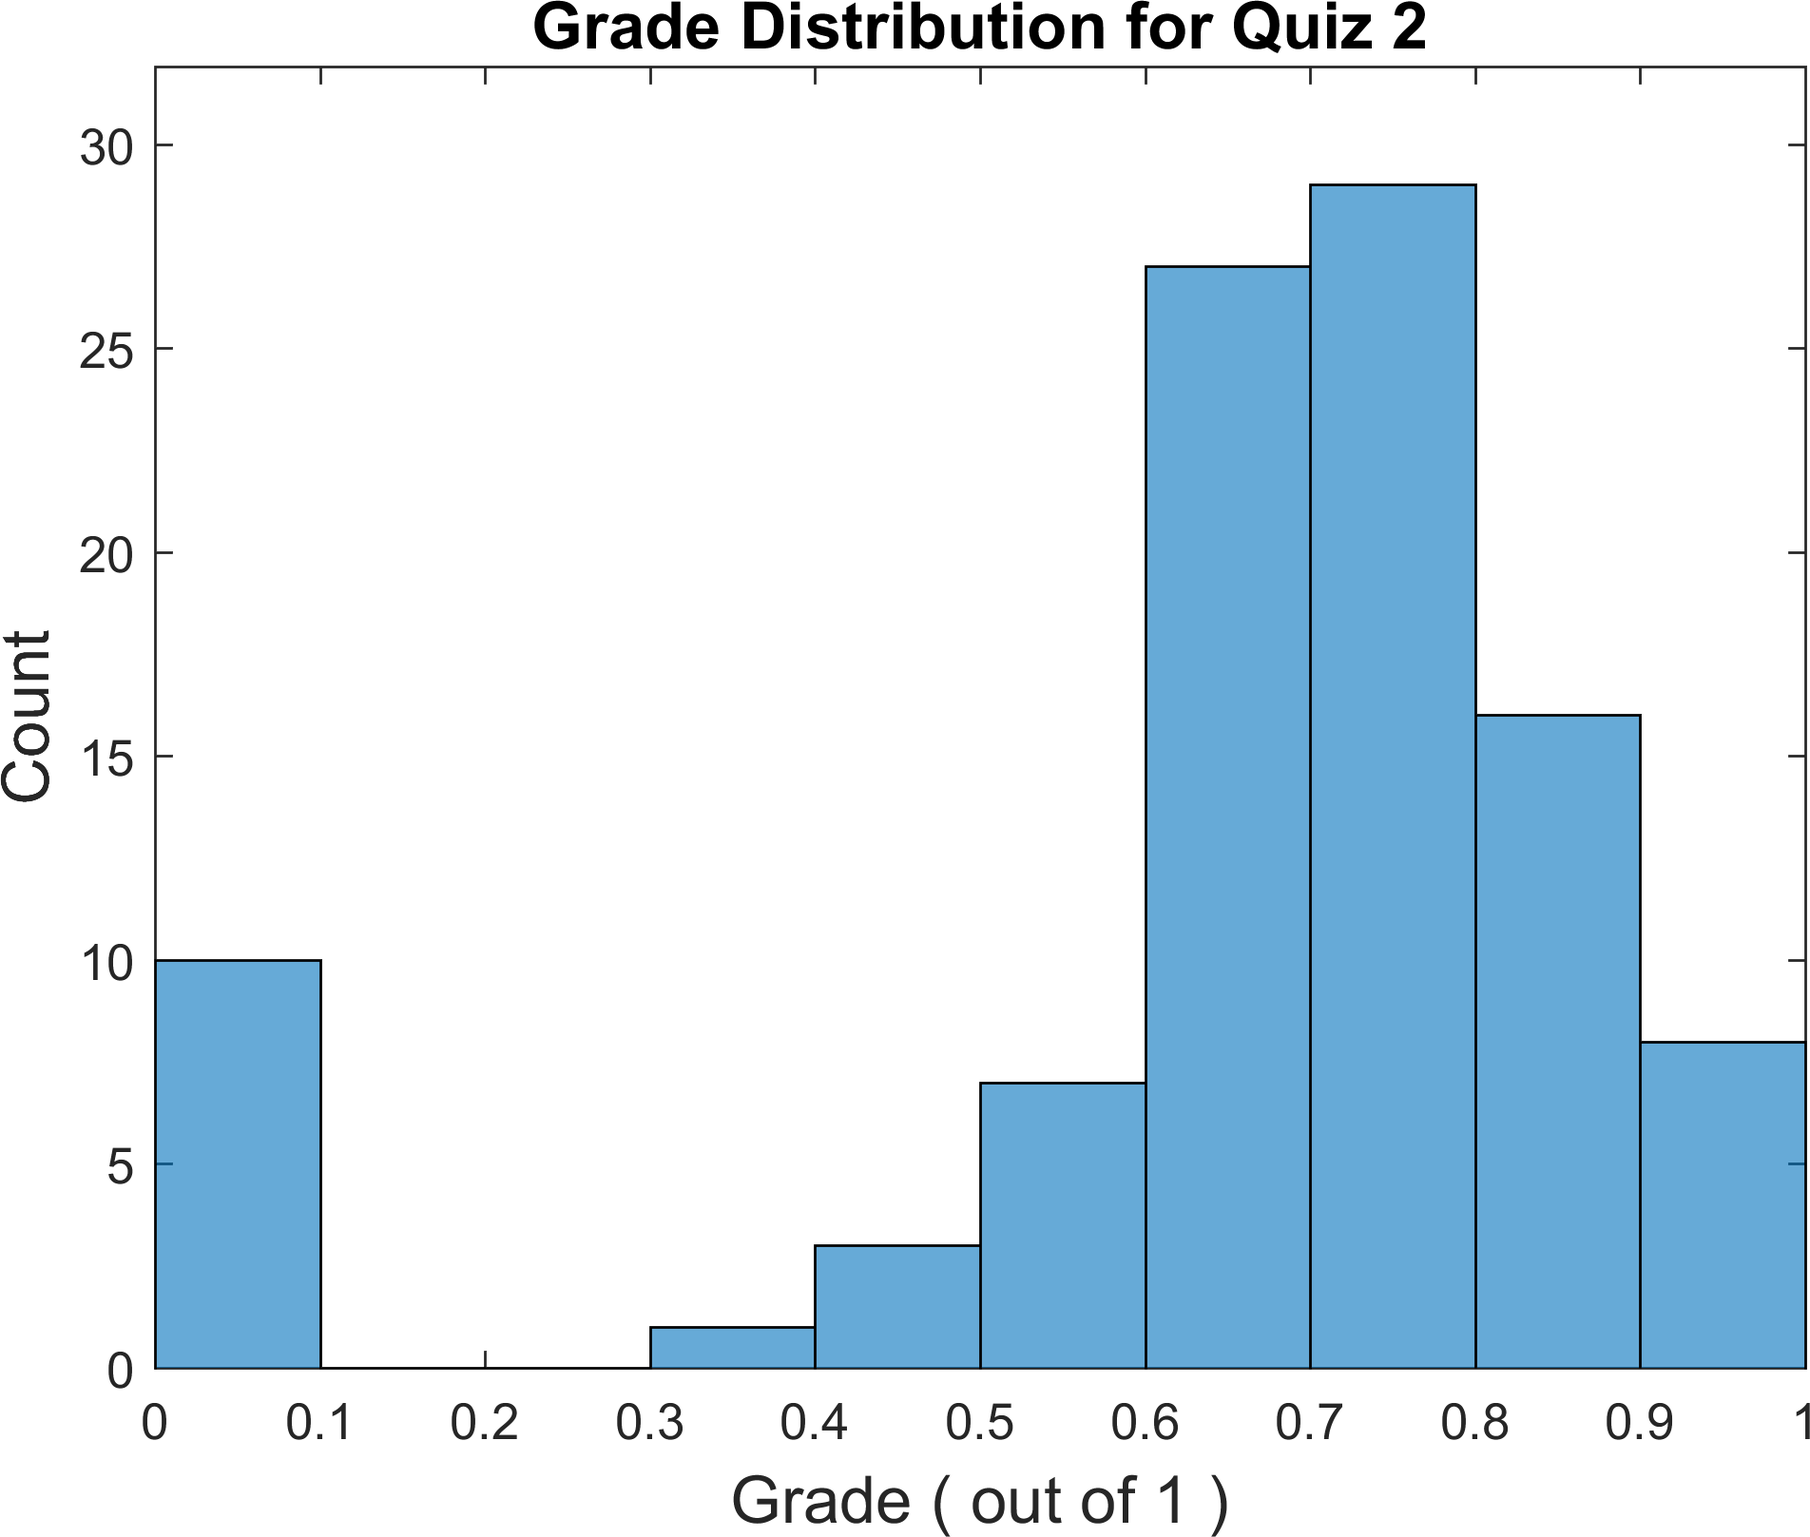
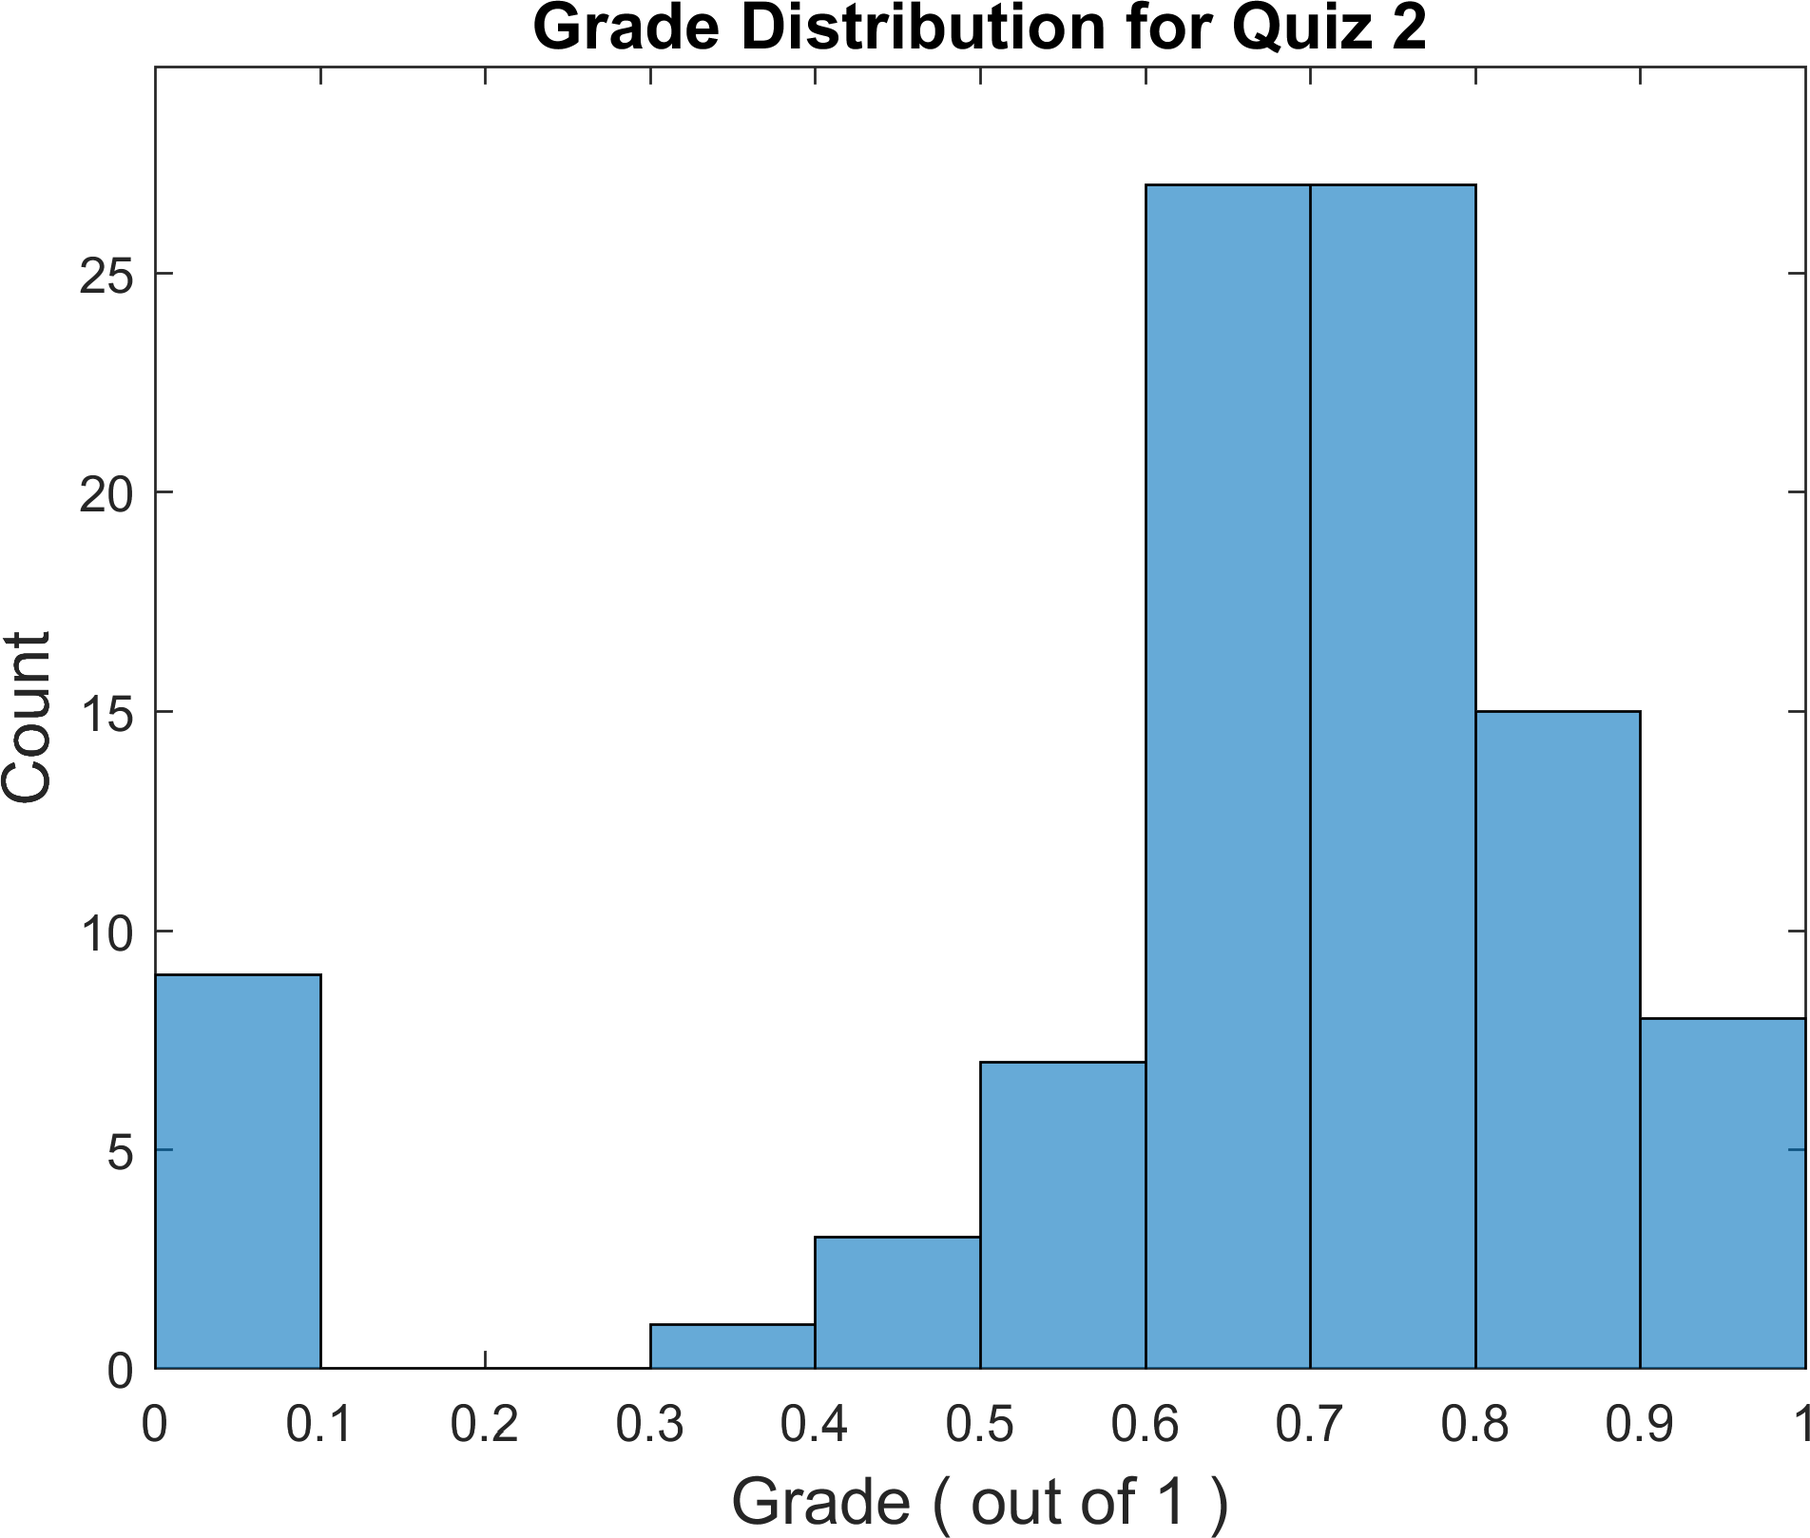
latest build

diff --git a/index.html b/index.html
@@ -229,7 +229,7 @@ MathJax.Hub.Queue(function() {
                 </h3>
             </header>
             <section class="notepad-post-excerpt">
-                <p>This is the solution to Quiz 4: Problems - MATLAB loops. This quiz is about for loops, while loops and vectorization in MATLAB. 1.  Write a function that takes an input integer, and computes its factorial, in the following ways:...</p>
+                <p>This is the solution to Quiz 4: Problems - MATLAB loops. The following figure illustrates the grade distribution for this quiz. Maximum possible points is 1. This quiz is about for loops, while loops and vectorization in MATLAB. 1.  Write...</p>
             </section>
             
                 <div class="notepad-index-post-tags">
@@ -328,7 +328,7 @@ MathJax.Hub.Queue(function() {
                 </h3>
             </header>
             <section class="notepad-post-excerpt">
-                <p>This is the solution to Homework 4: Problems - loops, IO. ♣ Due Date: Monday Nov 13, 2017 9:00 AM. This homework aims at giving you some experience with MATLAB for-loops and while-loops as well as input/output functionalities in MATLAB....</p>
+                <p>This is the solution to Homework 4: Problems - loops, IO. The following figure illustrates the grade distribution for this homework. ♣ Due Date: Monday Nov 13, 2017 9:00 AM. This homework aims at giving you some experience with MATLAB...</p>
             </section>
             
                 <div class="notepad-index-post-tags">
@@ -460,7 +460,7 @@ MathJax.Hub.Queue(function() {
                 </h3>
             </header>
             <section class="notepad-post-excerpt">
-                <p>This is the solution to Homework 3: Problems - structures, branching and functions in MATLAB. ♣ Due Date: Monday Oct 30, 2017 9:00 AM. This homework aims at giving you some experience with structure types in MATLAB as well as...</p>
+                <p>This is the solution to Homework 3: Problems - structures, branching and functions in MATLAB. The following figure illustrates the grade distribution for this homework. Maximum possible points, excluding bonus question, is 100. ♣ Due Date: Monday Oct 30, 2017...</p>
             </section>
             
                 <div class="notepad-index-post-tags">
@@ -817,7 +817,7 @@ MathJax.Hub.Queue(function() {
     <footer class="notepad-site-footer">
     <div class="copyright">
          <!-- <section>Last updated 2017 / 11 / 29</section></br> -->
-         <section>Last updated Wednesday, 29 Nov 2017 at 03:41 PM CST</section></br>
+         <section>Last updated Wednesday, 29 Nov 2017 at 04:51 PM CST</section></br>
          <section>All content exclusively maintained by <a href="http://shahmoradi.org" target="_blank">Amir Shahmoradi</a> <!-- &copy;--> </section></br>
          <section><a class="icon-ghost" href="http://www.ae.utexas.edu/" target="_blank">Department of Aerospace Engineering and Engineering Mechanics</a></section></br>
          <section><a class="icon-ghost" href="https://www.ices.utexas.edu/" target="_blank">Institute for Computational Engineering and Sciences | POB 6.328</a></section></br>

diff --git a/homework/3-solutions-matlab-structures-branching-functions.html b/homework/3-solutions-matlab-structures-branching-functions.html
@@ -146,23 +146,19 @@ MathJax.Hub.Queue(function() {
             <div style="text-align:justify;">
                 <p>This is the solution to <a href="3-problems-matlab-structures-branching-functions.html" target="_blank">Homework 3: Problems - structures, branching and functions in MATLAB</a>.</p>
 
-<!--
-
-The following figure illustrates the grade distribution for this homework.  
+<p>The following figure illustrates the grade distribution for this homework.</p>
 
 <figure>
-	<img src="/ICP2017F/homework/gradeDist/gradeHistHomework2.png" width="700">
+	<img src="/ICP2017F/homework/gradeDist/gradeHistHomework3.png" width="700" />
     <figcaption style="text-align:center">
         Maximum possible points, excluding bonus question, is 100.
     </figcaption>
 </figure>
 
----
----
+<hr />
+<hr />
 
-<br> 
-
--->
+<p><br /></p>
 
 <p>♣ <strong>Due Date: Monday Oct 30, 2017 9:00 AM</strong>. This homework aims at giving you some experience with structure types in MATLAB as well as branching and function concepts and their usage syntax. Write your MATLAB scripts with the corresponding <code>*.m</code> file names, and add a readme.md file in HW 3 folder of your ICP2017F repository if you need to add any additional explanation (Don’t forget to use markdown syntax highlight in your readme file, if needed).</p>
 
@@ -485,7 +481,7 @@ Please enter a non-negative integer or type stop: stop
     <footer class="notepad-site-footer">
     <div class="copyright">
          <!-- <section>Last updated 2017 / 11 / 29</section></br> -->
-         <section>Last updated Wednesday, 29 Nov 2017 at 03:41 PM CST</section></br>
+         <section>Last updated Wednesday, 29 Nov 2017 at 04:51 PM CST</section></br>
          <section>All content exclusively maintained by <a href="http://shahmoradi.org" target="_blank">Amir Shahmoradi</a> <!-- &copy;--> </section></br>
          <section><a class="icon-ghost" href="http://www.ae.utexas.edu/" target="_blank">Department of Aerospace Engineering and Engineering Mechanics</a></section></br>
          <section><a class="icon-ghost" href="https://www.ices.utexas.edu/" target="_blank">Institute for Computational Engineering and Sciences | POB 6.328</a></section></br>

diff --git a/quiz/4-solutions-matlab-loops.html b/quiz/4-solutions-matlab-loops.html
@@ -146,17 +146,13 @@ MathJax.Hub.Queue(function() {
             <div style="text-align:justify;">
                 <p>This is the solution to <a href="4-problems-matlab-loops.html" target="_blank">Quiz 4: Problems - MATLAB loops</a>.</p>
 
-<!--
-
-The following figure illustrates the grade distribution for this quiz.  
+<p>The following figure illustrates the grade distribution for this quiz.</p>
 <figure>
-	<img src="/ICP2017F/quiz/gradeDist/gradeHistQuiz4.png" width="700">
+	<img src="/ICP2017F/quiz/gradeDist/gradeHistQuiz4.png" width="700" />
     <figcaption style="text-align:center">
         Maximum possible points is 1.
     </figcaption>
 </figure>
-
--->
 
 <p>This quiz is about for loops, while loops and vectorization in MATLAB.</p>
 
@@ -276,7 +272,7 @@ You can do so, using <code>log()</code> transformation of the numbers in factori
     <footer class="notepad-site-footer">
     <div class="copyright">
          <!-- <section>Last updated 2017 / 11 / 29</section></br> -->
-         <section>Last updated Wednesday, 29 Nov 2017 at 03:41 PM CST</section></br>
+         <section>Last updated Wednesday, 29 Nov 2017 at 04:51 PM CST</section></br>
          <section>All content exclusively maintained by <a href="http://shahmoradi.org" target="_blank">Amir Shahmoradi</a> <!-- &copy;--> </section></br>
          <section><a class="icon-ghost" href="http://www.ae.utexas.edu/" target="_blank">Department of Aerospace Engineering and Engineering Mechanics</a></section></br>
          <section><a class="icon-ghost" href="https://www.ices.utexas.edu/" target="_blank">Institute for Computational Engineering and Sciences | POB 6.328</a></section></br>

diff --git a/homework/4-solutions-loops-IO.html b/homework/4-solutions-loops-IO.html
@@ -146,18 +146,13 @@ MathJax.Hub.Queue(function() {
             <div style="text-align:justify;">
                 <p>This is the solution to <a href="4-problems-loops-IO.html" target="_blank">Homework 4: Problems - loops, IO</a>.</p>
 
-<!--
-
-The following figure illustrates the grade distribution for this homework.  
+<p>The following figure illustrates the grade distribution for this homework.</p>
 
 <figure>
-	<img src="/ICP2017F/homework/gradeDist/gradeHistHomework2.png" width="700">
+	<img src="/ICP2017F/homework/gradeDist/gradeHistHomework4.png" width="700" />
     <figcaption style="text-align:center">
-        Maximum possible points, excluding bonus question, is 100.
     </figcaption>
 </figure>
-
--->
 
 <hr />
 <hr />
@@ -618,7 +613,7 @@ The input argument is not a non-negative integer!
     <footer class="notepad-site-footer">
     <div class="copyright">
          <!-- <section>Last updated 2017 / 11 / 29</section></br> -->
-         <section>Last updated Wednesday, 29 Nov 2017 at 03:41 PM CST</section></br>
+         <section>Last updated Wednesday, 29 Nov 2017 at 04:51 PM CST</section></br>
          <section>All content exclusively maintained by <a href="http://shahmoradi.org" target="_blank">Amir Shahmoradi</a> <!-- &copy;--> </section></br>
          <section><a class="icon-ghost" href="http://www.ae.utexas.edu/" target="_blank">Department of Aerospace Engineering and Engineering Mechanics</a></section></br>
          <section><a class="icon-ghost" href="https://www.ices.utexas.edu/" target="_blank">Institute for Computational Engineering and Sciences | POB 6.328</a></section></br>

diff --git a/about/index.html b/about/index.html
@@ -242,7 +242,7 @@ MathJax.Hub.Queue(function() {
 
 <h3 id="about-icp-students">About ICP Students</h3>
 
-<p>As of Wednesday, 29 Nov 2017 at 03:41 PM, there are 102 undergraduate students enrolled in this course. Below is the latest photo of students.</p>
+<p>As of Wednesday, 29 Nov 2017 at 04:51 PM, there are 102 undergraduate students enrolled in this course. Below is the latest photo of students.</p>
 
 <figure>
 	<img src="/ICP2017F/images/about/studentsResized.jpg" alt="students" />
@@ -270,7 +270,7 @@ MathJax.Hub.Queue(function() {
     <footer class="notepad-site-footer">
     <div class="copyright">
          <!-- <section>Last updated 2017 / 11 / 29</section></br> -->
-         <section>Last updated Wednesday, 29 Nov 2017 at 03:41 PM CST</section></br>
+         <section>Last updated Wednesday, 29 Nov 2017 at 04:51 PM CST</section></br>
          <section>All content exclusively maintained by <a href="http://shahmoradi.org" target="_blank">Amir Shahmoradi</a> <!-- &copy;--> </section></br>
          <section><a class="icon-ghost" href="http://www.ae.utexas.edu/" target="_blank">Department of Aerospace Engineering and Engineering Mechanics</a></section></br>
          <section><a class="icon-ghost" href="https://www.ices.utexas.edu/" target="_blank">Institute for Computational Engineering and Sciences | POB 6.328</a></section></br>

diff --git a/lecture/5-matlab-values-variables-types-II.html b/lecture/5-matlab-values-variables-types-II.html
@@ -1015,7 +1015,7 @@ Since slicing the cell array by <code>{}</code> returns a comma-separated list, 
     <footer class="notepad-site-footer">
     <div class="copyright">
          <!-- <section>Last updated 2017 / 11 / 29</section></br> -->
-         <section>Last updated Wednesday, 29 Nov 2017 at 03:41 PM CST</section></br>
+         <section>Last updated Wednesday, 29 Nov 2017 at 04:51 PM CST</section></br>
          <section>All content exclusively maintained by <a href="http://shahmoradi.org" target="_blank">Amir Shahmoradi</a> <!-- &copy;--> </section></br>
          <section><a class="icon-ghost" href="http://www.ae.utexas.edu/" target="_blank">Department of Aerospace Engineering and Engineering Mechanics</a></section></br>
          <section><a class="icon-ghost" href="https://www.ices.utexas.edu/" target="_blank">Institute for Computational Engineering and Sciences | POB 6.328</a></section></br>

diff --git a/announcement/2-course-progress-evaluation.html b/announcement/2-course-progress-evaluation.html
@@ -327,7 +327,7 @@ This class definitely needs more time per week than 1 hour. This is not enough t
     <footer class="notepad-site-footer">
     <div class="copyright">
          <!-- <section>Last updated 2017 / 11 / 29</section></br> -->
-         <section>Last updated Wednesday, 29 Nov 2017 at 03:41 PM CST</section></br>
+         <section>Last updated Wednesday, 29 Nov 2017 at 04:51 PM CST</section></br>
          <section>All content exclusively maintained by <a href="http://shahmoradi.org" target="_blank">Amir Shahmoradi</a> <!-- &copy;--> </section></br>
          <section><a class="icon-ghost" href="http://www.ae.utexas.edu/" target="_blank">Department of Aerospace Engineering and Engineering Mechanics</a></section></br>
          <section><a class="icon-ghost" href="https://www.ices.utexas.edu/" target="_blank">Institute for Computational Engineering and Sciences | POB 6.328</a></section></br>

diff --git a/exam/1-semester-project.html b/exam/1-semester-project.html
@@ -332,7 +332,7 @@ then all the necessary MATLAB codes to generate all the results will be called b
     <footer class="notepad-site-footer">
     <div class="copyright">
          <!-- <section>Last updated 2017 / 11 / 29</section></br> -->
-         <section>Last updated Wednesday, 29 Nov 2017 at 03:41 PM CST</section></br>
+         <section>Last updated Wednesday, 29 Nov 2017 at 04:51 PM CST</section></br>
          <section>All content exclusively maintained by <a href="http://shahmoradi.org" target="_blank">Amir Shahmoradi</a> <!-- &copy;--> </section></br>
          <section><a class="icon-ghost" href="http://www.ae.utexas.edu/" target="_blank">Department of Aerospace Engineering and Engineering Mechanics</a></section></br>
          <section><a class="icon-ghost" href="https://www.ices.utexas.edu/" target="_blank">Institute for Computational Engineering and Sciences | POB 6.328</a></section></br>

diff --git a/homework/2-problems-variables-values-types.html b/homework/2-problems-variables-values-types.html
@@ -380,7 +380,7 @@ Now on MATLAB command line, run the script by calling its name. What do you get?
     <footer class="notepad-site-footer">
     <div class="copyright">
          <!-- <section>Last updated 2017 / 11 / 29</section></br> -->
-         <section>Last updated Wednesday, 29 Nov 2017 at 03:41 PM CST</section></br>
+         <section>Last updated Wednesday, 29 Nov 2017 at 04:51 PM CST</section></br>
          <section>All content exclusively maintained by <a href="http://shahmoradi.org" target="_blank">Amir Shahmoradi</a> <!-- &copy;--> </section></br>
          <section><a class="icon-ghost" href="http://www.ae.utexas.edu/" target="_blank">Department of Aerospace Engineering and Engineering Mechanics</a></section></br>
          <section><a class="icon-ghost" href="https://www.ices.utexas.edu/" target="_blank">Institute for Computational Engineering and Sciences | POB 6.328</a></section></br>

diff --git a/homework/2-solutions-variables-values-types.html b/homework/2-solutions-variables-values-types.html
@@ -644,7 +644,7 @@ And this happens because the script we are trying to run is neither in MATLAB’
     <footer class="notepad-site-footer">
     <div class="copyright">
          <!-- <section>Last updated 2017 / 11 / 29</section></br> -->
-         <section>Last updated Wednesday, 29 Nov 2017 at 03:41 PM CST</section></br>
+         <section>Last updated Wednesday, 29 Nov 2017 at 04:51 PM CST</section></br>
          <section>All content exclusively maintained by <a href="http://shahmoradi.org" target="_blank">Amir Shahmoradi</a> <!-- &copy;--> </section></br>
          <section><a class="icon-ghost" href="http://www.ae.utexas.edu/" target="_blank">Department of Aerospace Engineering and Engineering Mechanics</a></section></br>
          <section><a class="icon-ghost" href="https://www.ices.utexas.edu/" target="_blank">Institute for Computational Engineering and Sciences | POB 6.328</a></section></br>

diff --git a/homework/5-problems-matlab-IO-plotting-monte-carlo.html b/homework/5-problems-matlab-IO-plotting-monte-carlo.html
@@ -305,7 +305,7 @@ as soon as you read from the file, and then finally you make a scatter plot of a
     <footer class="notepad-site-footer">
     <div class="copyright">
          <!-- <section>Last updated 2017 / 11 / 29</section></br> -->
-         <section>Last updated Wednesday, 29 Nov 2017 at 03:41 PM CST</section></br>
+         <section>Last updated Wednesday, 29 Nov 2017 at 04:51 PM CST</section></br>
          <section>All content exclusively maintained by <a href="http://shahmoradi.org" target="_blank">Amir Shahmoradi</a> <!-- &copy;--> </section></br>
          <section><a class="icon-ghost" href="http://www.ae.utexas.edu/" target="_blank">Department of Aerospace Engineering and Engineering Mechanics</a></section></br>
          <section><a class="icon-ghost" href="https://www.ices.utexas.edu/" target="_blank">Institute for Computational Engineering and Sciences | POB 6.328</a></section></br>

diff --git a/homework/6-problems-matlab-data-analysis-optimization.html b/homework/6-problems-matlab-data-analysis-optimization.html
@@ -272,7 +272,7 @@ Start your parameter search via <code>fminsearch()</code> with the following val
     <footer class="notepad-site-footer">
     <div class="copyright">
          <!-- <section>Last updated 2017 / 11 / 29</section></br> -->
-         <section>Last updated Wednesday, 29 Nov 2017 at 03:41 PM CST</section></br>
+         <section>Last updated Wednesday, 29 Nov 2017 at 04:51 PM CST</section></br>
          <section>All content exclusively maintained by <a href="http://shahmoradi.org" target="_blank">Amir Shahmoradi</a> <!-- &copy;--> </section></br>
          <section><a class="icon-ghost" href="http://www.ae.utexas.edu/" target="_blank">Department of Aerospace Engineering and Engineering Mechanics</a></section></br>
          <section><a class="icon-ghost" href="https://www.ices.utexas.edu/" target="_blank">Institute for Computational Engineering and Sciences | POB 6.328</a></section></br>
